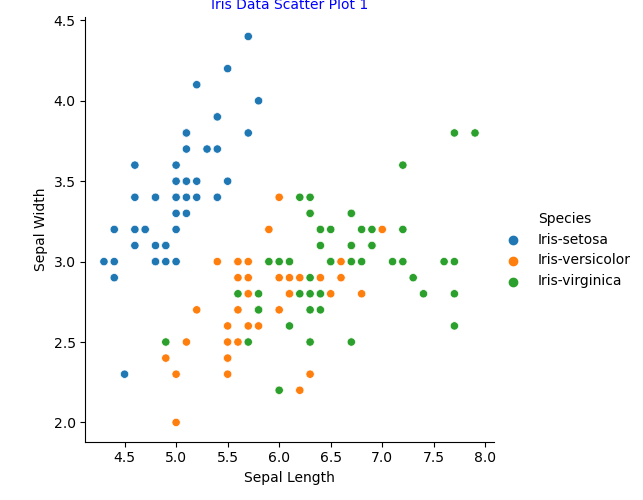
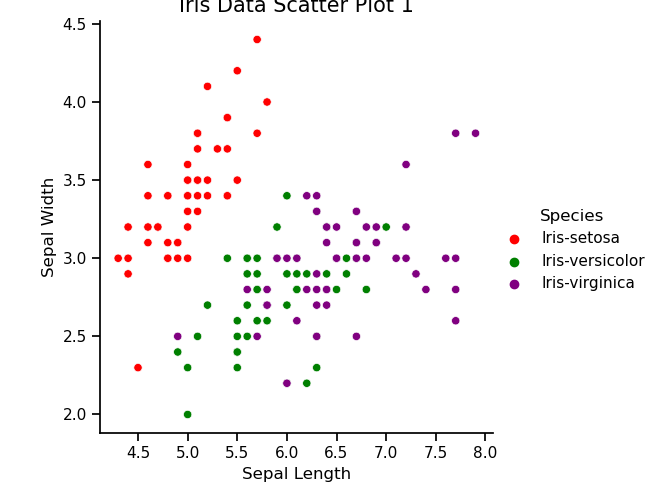
Visualization of data in visual.py

diff --git a/visual.py b/visual.py
@@ -1,0 +1,104 @@
+# This program is to create visualization of the Iris dataset
+# Export images of plots to png files
+
+# Author:Eva Czeyda-Pommersheim
+
+from statistics import stdev
+from isort import file
+from nbformat import write
+import numpy as np
+import matplotlib.pyplot as plt
+import seaborn as sns
+import pandas as pd 
+
+
+
+# Read in the original iris.data file and print its content
+iris = pd.read_csv('iris_ds.data', sep=',', header = None)
+print('The original file is with no column names:\n', iris)
+
+
+# This content has no header/column names only the raw data listed by Species
+# Add column names to the imported datafile by creating the list [cols]
+cols = ['Sepal Length', 'Sepal Width','Petal Length','Petal Width', 'Species']
+
+# Create a new dataframe with the column names using the names argument
+iris2 = pd.read_csv('iris_ds.data', sep=',', names = cols)
+print("The dataframe now includes the column names: \n",iris2)
+
+# Group the attribute variables into one dataframe
+#  Use of iloc[] to identify the rows and columns required to break into a sub dataframe
+features = iris2.iloc[:,:-1] 
+species = iris2.iloc[:,-1]
+# print(features.head())
+# print(type(features))
+# print (species.head())
+# print(type(species))
+
+# Print and save histogram plots for each attribute variable
+plt.hist(iris2["Sepal Length"])
+plt.xlabel("cm")
+plt.ylabel("Count")
+plt.title("Sepal Length")
+plt.savefig("Hist_sepal_length.png")
+plt.close()
+
+plt.hist(iris2["Sepal Width"])
+plt.xlabel("cm")
+plt.ylabel("Count")
+plt.title("Sepal Width")
+plt.savefig("Hist_sepal_width.png")
+plt.close()
+
+plt.hist(iris2["Petal Length"])
+plt.xlabel("cm")
+plt.ylabel("Count")
+plt.title("Petal Length")
+plt.savefig("Hist_petal_length.png")
+plt.close()
+
+plt.hist(iris2["Petal Width"])
+plt.xlabel("cm")
+plt.ylabel("Count")
+plt.title("Petal Width")
+plt.savefig("Hist_petal_width.png")
+plt.close()
+
+# Create scatter plots for each pair of the variables
+
+sns.set_context("notebook")
+custom_palette=["red","green","purple"]
+sns.set_palette(custom_palette)
+g=sns.relplot(data=iris2, kind="scatter", hue="Species", x="Sepal Length", y="Sepal Width")
+g.set(xlabel="Sepal Length", ylabel="Sepal Width") 
+plt.title('Iris Data Scatter Plot 1', color = 'black', size = 15)
+plt.savefig('IrisDataScatterPlot1.png')
+plt.close()
+
+sns.set_context("notebook")
+custom_palette=["red","green","purple"]
+sns.set_palette(custom_palette)
+g=sns.relplot(data=iris2, kind="scatter", hue="Species", x="Sepal Length", y="Petal Length")
+g.set(xlabel="Sepal Length", ylabel="Petal Length")
+plt.title('Iris Data Scatter Plot 2', color = 'black', size = 15)
+plt.savefig('IrisDataScatterPlot2.png')
+plt.close()
+
+sns.set_context("notebook")
+custom_palette=["red","green","purple"]
+sns.set_palette(custom_palette)
+g=sns.relplot(data=iris2, kind="scatter", hue="Species", x="Sepal Length", y="Petal Width")
+g.set(xlabel="Sepal Length", ylabel="Petal Width")
+plt.title('Iris Data Scatter Plot 3', color = 'black', size = 15)
+plt.savefig('IrisDataScatterPlot3.png')
+plt.close()
+
+sns.set_context("notebook")
+custom_palette=["red","green","purple"]
+sns.set_palette(custom_palette)
+g=sns.relplot(data=iris2, kind="scatter", hue="Species", x="Petal Length", y="Petal Width")
+g.set(xlabel="Petal Length", ylabel="Petal Width")
+plt.title('Iris Data Scatter Plot 4', color = 'black', size = 15)
+plt.savefig('IrisDataScatterPlot4.png')
+plt.close()
+

diff --git a/analysis2.py b/analysis2.py
@@ -1,4 +1,5 @@
 # This program is to import and analyze the Iris dataset by R.A. Fisher
+
 # Author Eva Czeyda-Pommersheim
 
 from statistics import stdev

diff --git a/README.md b/README.md
@@ -51,10 +51,14 @@ Based on the attribute data as per names.data file also available @ Ref [UCI Mac
 
 3. ANALYZING THE DATASET<br>
 
-Summary.txt file available in this repository contains a detailed review of the dataframe itself using generic commands available in the python Pandas package which provides with numerous ways to interpret and differentiate between the four features as well as the three species of the flower. Ref [Write command line output to a file] <br>
-It can be concluded that the Sepal dimensions are almost double to the Petal dimensions in general. This is most visible in the case of the Iris_setosa species. Thi species clearly stands out and can be separated from the other two species when comparing the attributes.<br>
+Summary.txt file available in this repository contains a detailed review of the dataframe itself using generic commands available in the python Pandas package which provides with numerous ways to interpret and differentiate between the four features as well as the three species of the flower.<br>
+It can be concluded that the Sepal dimensions are almost double to the Petal dimensions in general. This is most visible in the case of the Iris_setosa species. This species clearly stands out and can be separated from the other two species when comparing the attributes.<br>
 The values of the mean and median are slightly different which suggests that the distribution of the individual attribute variables may not be normal and/or have outliers present in the data obeserved.<br>
+Ref [Write command line output to a file](https://stackoverflow.com/questions/9003522/writing-command-line-output-to-file#:~:text=After%20that%20you%20can%20simple,functions%3A%20File%20IO%20in%20python.&text=is%20not%20useful-,Show%20activity%20on%20this%20post.,writing%2C%20and%20a%20for%20appending)
+
 4. VISUALIZATION<br>
+
+
 5. CONCLUSIONS<br>
 6. LIST OF FILES in REPOSITORY
 
